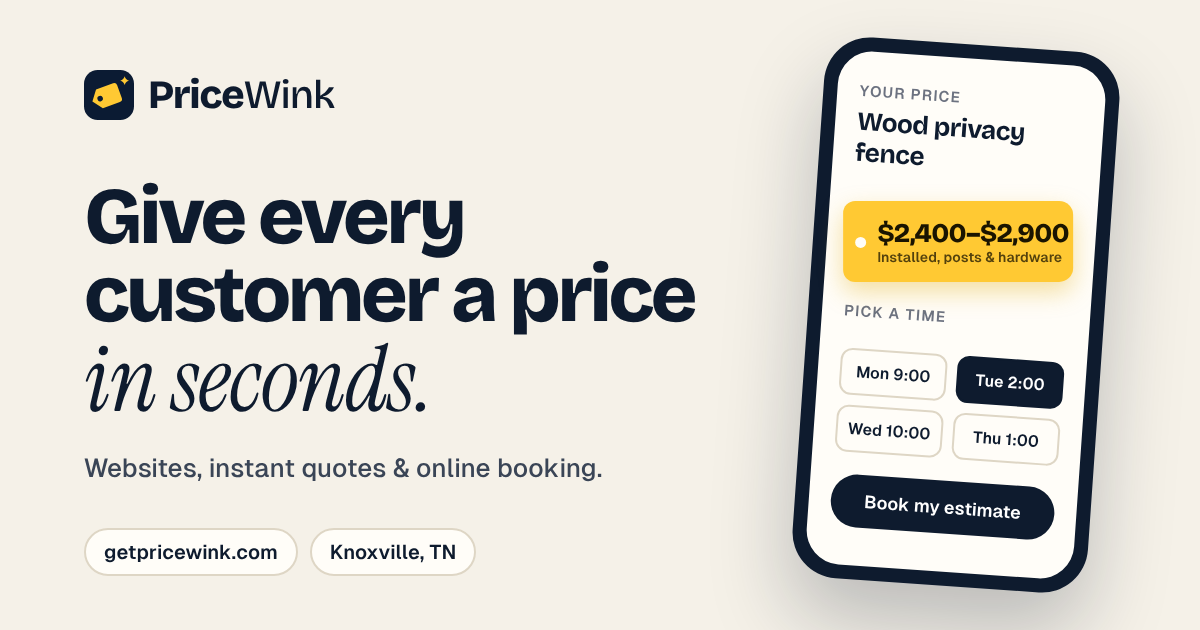
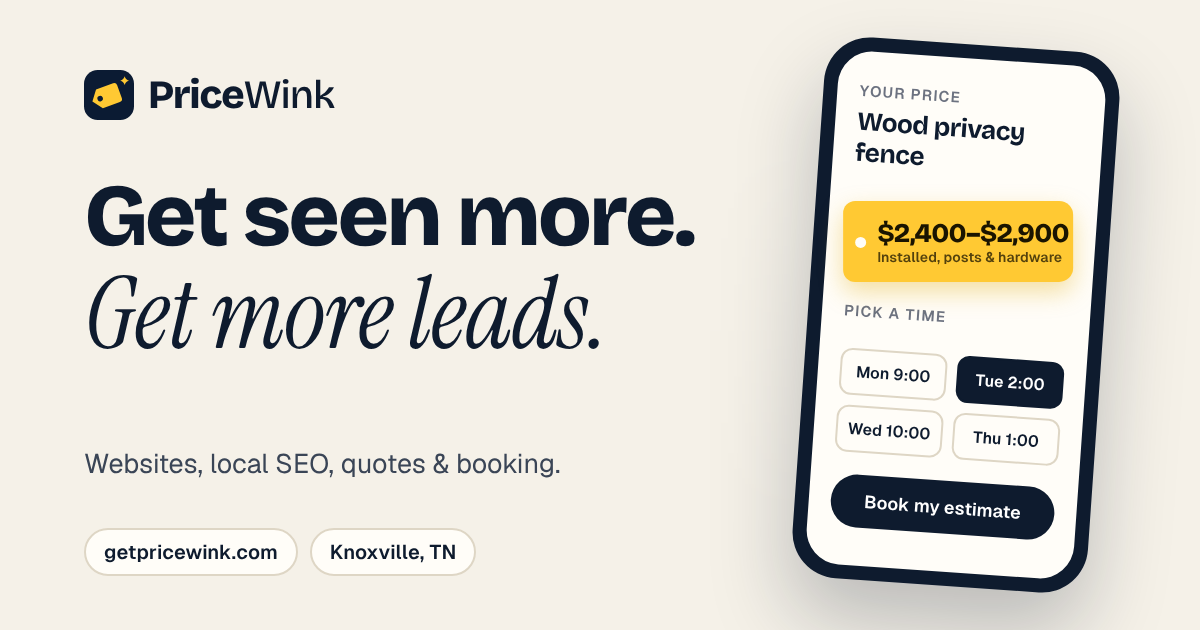
Reposition site around more leads and being seen
Lead with visibility and lead generation, add a Get seen / Get picked /
Get the lead section, and update SEO tags, FAQ, pricing list, contact
form options, terms and the social share image.

Claude-Session: https://claude.ai/code/session_01UoHjmt2TZKAXXcTa5MQCAA

Changed region(s): [[0.0617, 0.2714, 0.5858, 0.6635], [0.0617, 0.7238, 0.4933, 0.7841]]

diff --git a/index.html b/index.html
@@ -3,28 +3,28 @@
 <head>
 <meta charset="utf-8">
 <meta name="viewport" content="width=device-width, initial-scale=1, viewport-fit=cover">
-<title>Knoxville Websites &amp; Online Booking for Service Businesses | PriceWink</title>
-<meta name="description" content="Websites with instant quotes and online booking for Knoxville-area contractors and service businesses. Customers see your price and book from their phone. $249 setup, $99/month, built and managed for you.">
+<title>Knoxville Websites &amp; Local SEO That Bring More Leads | PriceWink</title>
+<meta name="description" content="PriceWink helps Knoxville-area businesses get seen and get more leads with websites, local SEO, instant quotes and online booking. $249 setup, $99/month, built and managed for you.">
 <meta name="robots" content="index, follow, max-image-preview:large">
 <meta name="theme-color" content="#0E1B2E">
 <link rel="icon" href="/favicon.svg" type="image/svg+xml">
-<meta property="og:title" content="PriceWink: websites, instant quotes and online booking for service businesses">
-<meta property="og:description" content="Customers see your price and book from their phone. You get the job.">
+<meta property="og:title" content="PriceWink: get seen more and get more leads">
+<meta property="og:description" content="Websites, local SEO, instant quotes and online booking for local businesses, all set up for you.">
 <meta property="og:url" content="https://www.getpricewink.com/">
 <meta property="og:type" content="website">
 <meta property="og:site_name" content="PriceWink">
 <meta property="og:image" content="https://www.getpricewink.com/img/og.png">
 <meta property="og:image:width" content="1200">
 <meta property="og:image:height" content="630">
-<meta property="og:image:alt" content="PriceWink: your customers see a price and book from their phone">
+<meta property="og:image:alt" content="PriceWink: get seen more, get more leads">
 <meta name="twitter:card" content="summary_large_image">
 <meta name="twitter:image" content="https://www.getpricewink.com/img/og.png">
 <link rel="canonical" href="https://www.getpricewink.com/">
 <script type="application/ld+json">
-{"@context": "https://schema.org", "@type": "ProfessionalService", "@id": "https://www.getpricewink.com/#business", "name": "PriceWink", "url": "https://www.getpricewink.com/", "logo": "https://www.getpricewink.com/favicon.svg", "image": "https://www.getpricewink.com/img/og.png", "description": "Websites, instant quote tools and online booking for local contractors and service businesses, built and managed from Knoxville, TN.", "telephone": "+1-865-321-0398", "email": "rj@getpricewink.com", "founder": {"@type": "Person", "name": "Ryder Mansell"}, "address": {"@type": "PostalAddress", "addressLocality": "Knoxville", "addressRegion": "TN", "addressCountry": "US"}, "areaServed": [{"@type": "City", "name": "Knoxville"}, {"@type": "City", "name": "Maryville"}, {"@type": "City", "name": "Farragut"}, {"@type": "City", "name": "Oak Ridge"}, {"@type": "City", "name": "Sevierville"}, {"@type": "City", "name": "Kodak"}, {"@type": "City", "name": "Lenoir City"}, {"@type": "City", "name": "Powell"}, {"@type": "State", "name": "Tennessee"}], "priceRange": "$$", "makesOffer": {"@type": "Offer", "name": "Website with instant quotes and online booking", "price": "99", "priceCurrency": "USD", "priceSpecification": [{"@type": "UnitPriceSpecification", "price": "99", "priceCurrency": "USD", "unitText": "MONTH"}, {"@type": "PriceSpecification", "name": "One-time setup", "price": "249", "priceCurrency": "USD"}]}, "knowsAbout": ["Web design for contractors", "Instant quote tools", "Online booking", "Local SEO", "Google Business Profile"]}
+{"@context": "https://schema.org", "@type": "ProfessionalService", "@id": "https://www.getpricewink.com/#business", "name": "PriceWink", "url": "https://www.getpricewink.com/", "logo": "https://www.getpricewink.com/favicon.svg", "image": "https://www.getpricewink.com/img/og.png", "description": "Helping local businesses get seen and get more leads with websites, local SEO, instant quote tools and online booking, built and managed from Knoxville, TN.", "telephone": "+1-865-321-0398", "email": "rj@getpricewink.com", "founder": {"@type": "Person", "name": "Ryder Mansell"}, "address": {"@type": "PostalAddress", "addressLocality": "Knoxville", "addressRegion": "TN", "addressCountry": "US"}, "areaServed": [{"@type": "City", "name": "Knoxville"}, {"@type": "City", "name": "Maryville"}, {"@type": "City", "name": "Farragut"}, {"@type": "City", "name": "Oak Ridge"}, {"@type": "City", "name": "Sevierville"}, {"@type": "City", "name": "Kodak"}, {"@type": "City", "name": "Lenoir City"}, {"@type": "City", "name": "Powell"}, {"@type": "State", "name": "Tennessee"}], "priceRange": "$$", "makesOffer": {"@type": "Offer", "name": "Website with instant quotes and online booking", "price": "99", "priceCurrency": "USD", "priceSpecification": [{"@type": "UnitPriceSpecification", "price": "99", "priceCurrency": "USD", "unitText": "MONTH"}, {"@type": "PriceSpecification", "name": "One-time setup", "price": "249", "priceCurrency": "USD"}]}, "knowsAbout": ["Web design for contractors", "Instant quote tools", "Online booking", "Local SEO", "Google Business Profile"]}
 </script>
 <script type="application/ld+json">
-{"@context": "https://schema.org", "@type": "FAQPage", "mainEntity": [{"@type": "Question", "name": "Can you build my whole website?", "acceptedAnswer": {"@type": "Answer", "text": "Yes. We build a new, mobile-friendly website for your business with your quote tool built in. It costs the same as the quote tool on its own: $249 setup and $99 a month, with hosting, your domain and updates included."}}, {"@type": "Question", "name": "Do I have to pay before I see anything?", "acceptedAnswer": {"@type": "Answer", "text": "No. We build a free preview with your own photos, reviews and services first. You only sign up if you like it."}}, {"@type": "Question", "name": "Do I own my domain?", "acceptedAnswer": {"@type": "Answer", "text": "Yes. Your domain is yours. If you ever cancel, we’ll transfer it to you."}}, {"@type": "Question", "name": "Do my customers need to download anything?", "acceptedAnswer": {"@type": "Answer", "text": "No. It's a link that works on any phone or computer."}}, {"@type": "Question", "name": "Can I change my prices?", "acceptedAnswer": {"@type": "Answer", "text": "Yes, anytime. Just tell us the new rates and we'll update them."}}, {"@type": "Question", "name": "What about jobs that need an in-person look?", "acceptedAnswer": {"@type": "Answer", "text": "Offer a \"service visit\" option instead of a fixed price, and finalize the quote on site."}}, {"@type": "Question", "name": "What if I price by size or measurements?", "acceptedAnswer": {"@type": "Answer", "text": "Customers can pick a size or enter square feet or linear feet, and the price is calculated from your rate. For jobs that need measuring on site, show a price range instead."}}, {"@type": "Question", "name": "What if the customer doesn’t know what’s wrong?", "acceptedAnswer": {"@type": "Answer", "text": "They pick what they’re seeing, like a leak, a strange noise, or something that stopped working, and book a diagnostic visit at your set fee. You give the exact price on site."}}, {"@type": "Question", "name": "I don’t have a website. Can I still use it?", "acceptedAnswer": {"@type": "Answer", "text": "Yes. Your quote page has its own link, so it works from your Google Business Profile, your Facebook page, or a text you send to customers who ask for a price. Or we can build you a website."}}, {"@type": "Question", "name": "Do I need to be good with technology?", "acceptedAnswer": {"@type": "Answer", "text": "No. We set everything up and make any changes for you. You just get the jobs by email and on your calendar, and you can call or text us anytime."}}, {"@type": "Question", "name": "Does it work with my calendar?", "acceptedAnswer": {"@type": "Answer", "text": "Yes. Every booking goes onto a Google Calendar that shows on your phone. Block off a day there and customers can’t book it."}}, {"@type": "Question", "name": "Who owns my customer info?", "acceptedAnswer": {"@type": "Answer", "text": "You do. Every booking is saved to a spreadsheet shared with you. We never sell or share it, and if you cancel, you keep a copy."}}, {"@type": "Question", "name": "How much does it cost?", "acceptedAnswer": {"@type": "Answer", "text": "$249 one-time setup, then $99 a month, whether it’s the quote tool on its own or a new website with the quote tool built in. Our first 3 clients get setup for $199."}}]}
+{"@context": "https://schema.org", "@type": "FAQPage", "mainEntity": [{"@type": "Question", "name": "Will this help me show up on Google?", "acceptedAnswer": {"@type": "Answer", "text": "It should help. Every website we build includes local SEO: your services, service area and business details are set up so Google can understand them, and we link everything to your Google Business Profile. Rankings take time and depend on things like your competition and reviews, so we can’t promise a specific spot."}}, {"@type": "Question", "name": "Can you guarantee more leads?", "acceptedAnswer": {"@type": "Answer", "text": "No, and be careful with anyone who does. What we can do is make you easier to find, make it easier for people to reach you, and show you where your bookings came from so you can see what’s working."}}, {"@type": "Question", "name": "Can you build my whole website?", "acceptedAnswer": {"@type": "Answer", "text": "Yes. We build a new, mobile-friendly website for your business with your quote tool built in. It costs the same as the quote tool on its own: $249 setup and $99 a month, with hosting, your domain and updates included."}}, {"@type": "Question", "name": "Do I have to pay before I see anything?", "acceptedAnswer": {"@type": "Answer", "text": "No. We build a free preview with your own photos, reviews and services first. You only sign up if you like it."}}, {"@type": "Question", "name": "Do I own my domain?", "acceptedAnswer": {"@type": "Answer", "text": "Yes. Your domain is yours. If you ever cancel, we’ll transfer it to you."}}, {"@type": "Question", "name": "Do my customers need to download anything?", "acceptedAnswer": {"@type": "Answer", "text": "No. It's a link that works on any phone or computer."}}, {"@type": "Question", "name": "Can I change my prices?", "acceptedAnswer": {"@type": "Answer", "text": "Yes, anytime. Just tell us the new rates and we'll update them."}}, {"@type": "Question", "name": "What about jobs that need an in-person look?", "acceptedAnswer": {"@type": "Answer", "text": "Offer a \"service visit\" option instead of a fixed price, and finalize the quote on site."}}, {"@type": "Question", "name": "What if I price by size or measurements?", "acceptedAnswer": {"@type": "Answer", "text": "Customers can pick a size or enter square feet or linear feet, and the price is calculated from your rate. For jobs that need measuring on site, show a price range instead."}}, {"@type": "Question", "name": "What if the customer doesn’t know what’s wrong?", "acceptedAnswer": {"@type": "Answer", "text": "They pick what they’re seeing, like a leak, a strange noise, or something that stopped working, and book a diagnostic visit at your set fee. You give the exact price on site."}}, {"@type": "Question", "name": "I don’t have a website. Can I still use it?", "acceptedAnswer": {"@type": "Answer", "text": "Yes. Your quote page has its own link, so it works from your Google Business Profile, your Facebook page, or a text you send to customers who ask for a price. Or we can build you a website."}}, {"@type": "Question", "name": "Do I need to be good with technology?", "acceptedAnswer": {"@type": "Answer", "text": "No. We set everything up and make any changes for you. You just get the jobs by email and on your calendar, and you can call or text us anytime."}}, {"@type": "Question", "name": "Does it work with my calendar?", "acceptedAnswer": {"@type": "Answer", "text": "Yes. Every booking goes onto a Google Calendar that shows on your phone. Block off a day there and customers can’t book it."}}, {"@type": "Question", "name": "Who owns my customer info?", "acceptedAnswer": {"@type": "Answer", "text": "You do. Every booking is saved to a spreadsheet shared with you. We never sell or share it, and if you cancel, you keep a copy."}}, {"@type": "Question", "name": "How much does it cost?", "acceptedAnswer": {"@type": "Answer", "text": "$249 one-time setup, then $99 a month, whether it’s the quote tool on its own or a new website with the quote tool built in. Our first 3 clients get setup for $199."}}]}
 </script>
 <link rel="preconnect" href="https://fonts.googleapis.com">
 <link rel="preconnect" href="https://fonts.gstatic.com" crossorigin>
@@ -441,6 +441,23 @@ footer .wrap{display:flex;justify-content:space-between;align-items:center;gap:1
   .rv,.row{opacity:1;transform:none}
   .ph{transform:none!important}
 }
+/* Get seen section */
+.hero h1{font-size:clamp(2.9rem,8.4vw,5rem)}
+.hero h1 em.s,#grow h2 em.s{display:block}
+.grow-lead{max-width:40rem}
+.m-search{width:84%;display:flex;flex-direction:column;gap:10px}
+.m-bar{display:flex;align-items:center;gap:8px;background:#fff;border:1.5px solid var(--line);border-radius:999px;padding:9px 14px;font-size:.84rem;font-weight:500;color:var(--ink)}
+.m-bar svg{flex:none;color:var(--muted)}
+.m-res{background:#fff;border:1px solid var(--line);border-radius:14px;padding:11px 14px}
+.m-res small{display:block;font-size:.72rem;color:var(--muted)}
+.m-res b{display:block;font-family:var(--disp);font-size:.98rem;color:var(--ink);letter-spacing:-.01em;margin:1px 0 2px}
+.m-res span{display:block;font-size:.78rem;color:var(--body);line-height:1.3}
+.m-pick{width:76%;display:flex;flex-direction:column;gap:8px}
+.m-pick b{font-family:var(--disp);font-size:1.12rem;line-height:1.1;color:var(--ink);letter-spacing:-.02em;margin-bottom:4px}
+.m-pick span{display:block;text-align:center;border-radius:999px;padding:9px 10px;font-size:.84rem;font-weight:600}
+.m-pick .a{background:var(--tag);color:var(--tag-ink)}
+.m-pick .c{background:#fff;color:var(--ink);border:1.5px solid var(--line)}
+@media(max-width:860px){.m-res span{display:none}.m-pick b{display:none}}
 </style>
 </head>
 <body>
@@ -454,7 +471,7 @@ footer .wrap{display:flex;justify-content:space-between;align-items:center;gap:1
 <nav class="nav" id="nav">
   <div class="wrap">
     <a class="logo" href="#top" aria-label="PriceWink home"><svg width="34" height="34" aria-hidden="true"><use href="#mark"/></svg><span><b>Price</b><span>Wink</span></span></a>
-    <div class="links"><a href="#how">How it works</a><a href="#websites">Websites</a><a href="#pricing">Pricing</a><a href="#faq">FAQ</a></div>
+    <div class="links"><a href="#grow">More leads</a><a href="#how">How it works</a><a href="#websites">Websites</a><a href="#pricing">Pricing</a><a href="#faq">FAQ</a></div>
     <a class="btn sm" href="#contact">Request a demo</a>
   </div>
 </nav>
@@ -464,11 +481,11 @@ footer .wrap{display:flex;justify-content:space-between;align-items:center;gap:1
 <section class="hero">
   <div class="wrap hgrid">
     <div>
-      <span class="eyebrow">Websites · Quotes · Booking · Knoxville, TN</span>
-      <h1>Give every customer a price <em class="s">in seconds.</em></h1>
-      <p class="lead">Customers see your price and book from their phone. You get the job. No back-and-forth.</p>
-      <div class="ctas"><a class="btn" href="#contact">Request a demo <svg width="18" height="18" aria-hidden="true"><use href="#arr"/></svg></a><a class="btn ghost" href="#websites">Need a website?</a></div>
-      <div class="where"><span>Your website</span><span>Google Business Profile</span><span>Facebook</span><span>A text link</span></div>
+      <span class="eyebrow">More leads · More visibility</span>
+      <h1>Get seen more. <em class="s">Get more leads.</em></h1>
+      <p class="lead">PriceWink helps Knoxville-area businesses show up online and turn more visitors into real leads, with a website, local SEO, instant quotes and online booking, all set up for you.</p>
+      <div class="ctas"><a class="btn" href="#contact">Get my free preview <svg width="18" height="18" aria-hidden="true"><use href="#arr"/></svg></a><a class="btn ghost" href="#grow">See how</a></div>
+      <div class="where"><span>On Google</span><span>On Facebook</span><span>On your website</span><span>By text link</span></div>
     </div>
 
     <div class="hstage">
@@ -521,6 +538,18 @@ footer .wrap{display:flex;justify-content:space-between;align-items:center;gap:1
   <span aria-hidden="true">Garage doors</span><span aria-hidden="true">Tree service</span><span aria-hidden="true">Gutters</span><span aria-hidden="true">Roofing</span><span aria-hidden="true">Christmas lighting</span><span aria-hidden="true">HVAC</span><span aria-hidden="true">Lawn care</span><span aria-hidden="true">Painting</span><span aria-hidden="true">Windows</span><span aria-hidden="true">Junk removal</span>
 </div></div>
 
+<!-- ================= GET SEEN ================= -->
+<section id="grow">
+  <div class="wrap">
+    <div class="head rv"><span class="eyebrow">More leads</span><h2>Get seen. Get picked. <em class="s">Get the lead.</em></h2><p class="lead grow-lead">Good work only pays off if people can find you. We help at every step, from the first search to the new lead on your phone.</p></div>
+    <ol class="three">
+      <li class="rv"><div class="mini"><div class="m-search" aria-hidden="true"><div class="m-bar"><svg width="14" height="14" viewBox="0 0 20 20"><circle cx="9" cy="9" r="6" fill="none" stroke="currentColor" stroke-width="2.4"/><path d="M14 14l4 4" stroke="currentColor" stroke-width="2.4" stroke-linecap="round"/></svg>garage door repair near me</div><div class="m-res"><small>ridgeviewdoors.com</small><b>Ridgeview Garage Doors</b><span>Springs, openers and new doors. Get a price online.</span></div></div></div><h3>Get seen</h3><p>Your site is built for local search and linked to your Google profile and Facebook, so people nearby can find you.</p></li>
+      <li class="rv"><div class="mini"><div class="m-pick" aria-hidden="true"><b>Garage doors done right.</b><span class="a">Get my price</span><span class="c">Call now</span></div></div><h3>Get picked</h3><p>A sharp, phone-friendly site with instant prices and tap-to-call gives people a reason to choose you.</p></li>
+      <li class="rv"><div class="mini"><div class="m3" aria-hidden="true"><span class="ap"><svg width="20" height="20"><use href="#mark"/></svg></span><div><small>New lead · from Google</small><b>Jordan P. · $1,950<br>Double door, insulated</b></div></div></div><h3>Get the lead</h3><p>Bookings and unfinished quotes land in one simple inbox, and you can see where each one came from.</p></li>
+    </ol>
+  </div>
+</section>
+
 <!-- ================= HOW ================= -->
 <section id="how">
   <div class="wrap">
@@ -537,13 +566,13 @@ footer .wrap{display:flex;justify-content:space-between;align-items:center;gap:1
 <section class="dark" id="websites">
   <div class="wrap">
     <div class="web-top">
-      <div class="head rv" style="margin:0"><span class="eyebrow">Websites</span><h2>No website? Old website? <em class="s">We’ll build you a new one.</em></h2></div>
+      <div class="head rv" style="margin:0"><span class="eyebrow">Websites</span><h2>No website? Old website? <em class="s">We’ll build one that gets found.</em></h2></div>
       <div class="rv">
-        <p class="lead" style="margin-bottom:24px">Designed around your business, with your quote tool built in.</p>
+        <p class="lead" style="margin-bottom:24px">Designed around your business and built for local search, with your quote tool included.</p>
         <ul class="points">
           <li><b>Made for you</b>Never a generic template.</li>
           <li><b>Phone first</b>Tap-to-call, directions and booking.</li>
-          <li><b>Your own address</b>A domain like yourbusiness.com, yours to keep.</li>
+          <li><b>Built to be found</b>Local SEO included from day one.</li>
           <li><b>See it before you pay</b>We build a free preview first.</li>
         </ul>
       </div>
@@ -578,10 +607,12 @@ footer .wrap{display:flex;justify-content:space-between;align-items:center;gap:1
     </div>
     <div>
       <div class="head rv" style="margin-bottom:0"><span class="eyebrow">For the owner</span><h2>Jobs show up. <em class="s">You just show up.</em></h2>
-        <p class="lead">Bookings land on your phone, price already agreed. We run the rest.</p></div>
+        <p class="lead">New leads and bookings land on your phone. We run the rest.</p></div>
       <ul class="feats rv">
         <li><b>Your prices</b><span>You set every rate and add-on. Change them anytime.</span></li>
         <li><b>Books after hours</b><span>Catch the customers who shop at night.</span></li>
+        <li><b>See what’s working</b><span>Know where each booking came from.</span></li>
+        <li><b>Save unfinished quotes</b><span>Follow up with people who didn’t book.</span></li>
         <li><b>Google Calendar sync</b><span>Block a day and nobody can book it.</span></li>
         <li><b>Set up for you</b><span>We build it, add it and update it.</span></li>
         <li><b>No website needed</b><span>Works from Google, Facebook or a text.</span></li>
@@ -607,8 +638,9 @@ footer .wrap{display:flex;justify-content:space-between;align-items:center;gap:1
       <ul class="incl">
         <li>Your quote tool, built for you</li>
         <li>A new website, if you need one</li>
+        <li>Local SEO built into your website</li>
         <li>Hosting, domain and updates</li>
-        <li>Booking alerts on your phone</li>
+        <li>Lead and booking alerts</li>
       </ul>
       <a class="btn yel" href="#contact">Get my free preview <svg width="18" height="18" aria-hidden="true"><use href="#arr"/></svg></a>
       <p class="fine">Cancel anytime. Setup is non-refundable. <a href="#terms">Terms</a></p>
@@ -623,8 +655,8 @@ footer .wrap{display:flex;justify-content:space-between;align-items:center;gap:1
     <div class="rv">
       <span class="eyebrow">Who you’ll work with</span>
       <blockquote style="margin-top:16px">A real person, <em class="s">not a call center.</em></blockquote>
-      <p>Hi, I’m Ryder. I started PriceWink to help local service businesses win more jobs with less phone tag.</p>
-      <p>I build your quote tool with your own services and prices, and if you need one, a new website to go with it. I add it to your Google profile and Facebook and handle every change after that. You don’t have to learn any new software. If you need anything, just call or text me.</p>
+      <p>Hi, I’m Ryder. I started PriceWink to help local businesses get seen, get more leads and win more jobs.</p>
+      <p>I build your quote tool with your own services and prices, and if you need one, a new website set up to be found on Google. I add it to your Google profile and Facebook and handle every change after that. You don’t have to learn any new software. If you need anything, just call or text me.</p>
       <div class="ctas"><a class="btn" href="tel:+18653210398">Call or text (865) 321-0398</a><a class="btn ghost" href="mailto:rj@getpricewink.com">Email me</a></div>
     </div>
   </div>
@@ -636,6 +668,7 @@ footer .wrap{display:flex;justify-content:space-between;align-items:center;gap:1
     <div class="head rv"><span class="eyebrow">FAQ</span><h2>Common <em class="s">questions.</em></h2></div>
     <div class="faq">
       <div>
+        <details><summary>Will this help me show up on Google?</summary><p>It should help. Every website we build includes local SEO: your services, service area and business details are set up so Google can understand them, and we link everything to your Google Business Profile. Rankings take time and depend on things like your competition and reviews, so we can’t promise a specific spot.</p></details>
         <details><summary>Can you build my whole website?</summary><p>Yes. We build a new, mobile-friendly website for your business with your quote tool built in. It costs the same as the quote tool on its own: $249 setup and $99 a month, with hosting, your domain and updates included.</p></details>
         <details><summary>Do I have to pay before I see anything?</summary><p>No. We build a free preview with your own photos, reviews and services first. You only sign up if you like it.</p></details>
         <details><summary>Do I own my domain?</summary><p>Yes. Your domain is yours. If you ever cancel, we’ll transfer it to you.</p></details>
@@ -645,6 +678,7 @@ footer .wrap{display:flex;justify-content:space-between;align-items:center;gap:1
         <details><summary>What if I price by size or measurements?</summary><p>Customers can pick a size or enter square feet or linear feet, and the price is calculated from your rate. For jobs that need measuring on site, show a price range instead.</p></details>
       </div>
       <div>
+        <details><summary>Can you guarantee more leads?</summary><p>No, and be careful with anyone who does. What we can do is make you easier to find, make it easier for people to reach you, and show you where your bookings came from so you can see what’s working.</p></details>
         <details><summary>What if the customer doesn’t know what’s wrong?</summary><p>They pick what they’re seeing, like a leak, a strange noise, or something that stopped working, and book a diagnostic visit at your set fee. You give the exact price on site.</p></details>
         <details><summary>I don’t have a website. Can I still use it?</summary><p>Yes. Your quote page has its own link, so it works from your Google Business Profile, your Facebook page, or a text you send to customers who ask for a price. Or we can build you a website.</p></details>
         <details><summary>Do I need to be good with technology?</summary><p>No. We set everything up and make any changes for you. You just get the jobs by email and on your calendar, and you can call or text us anytime.</p></details>
@@ -661,7 +695,7 @@ footer .wrap{display:flex;justify-content:space-between;align-items:center;gap:1
   <div class="wrap contact">
     <div class="rv">
       <span class="eyebrow">Free demo</span>
-      <h2 style="margin-top:16px">Let’s get you <em class="s">booked.</em></h2>
+      <h2 style="margin-top:16px">Let’s get you <em class="s">seen.</em></h2>
       <p class="lead" style="margin-top:18px">Tell us about your business. We’ll reply <b style="color:#fff">within 24 hours</b> with a free preview built for you.</p>
       <p class="alt">Rather talk? Call or text <a href="tel:+18653210398">(865) 321-0398</a><br>or email <a href="mailto:rj@getpricewink.com">rj@getpricewink.com</a></p>
     </div>
@@ -674,7 +708,7 @@ footer .wrap{display:flex;justify-content:space-between;align-items:center;gap:1
       </div>
       <label for="d-type">What kind of business?<input id="d-type" name="type" placeholder="Garage doors, tree service…"></label>
       <label for="d-want">What are you interested in?
-        <select id="d-want" name="interest"><option>Quote tool for my current website</option><option>New website with a quote tool</option><option>Not sure yet</option></select>
+        <select id="d-want" name="interest"><option>Getting more leads</option><option>Showing up on Google</option><option>Quote tool for my current website</option><option>New website with a quote tool</option><option>Not sure yet</option></select>
       </label>
       <label for="d-time">Best time to reach you
         <select id="d-time" name="best_time"><option>Anytime</option><option>Mornings</option><option>Afternoons</option><option>Evenings</option></select>
@@ -715,6 +749,7 @@ footer .wrap{display:flex;justify-content:space-between;align-items:center;gap:1
     <ul>
       <li>We build, host and maintain your quote tool and website, and make price, service and content updates when you ask.</li>
       <li>If we register a domain for you, it belongs to you. If you cancel, we’ll transfer it to you.</li>
+      <li>We work to help you get found and get leads, but we can’t guarantee search rankings or a specific number of leads or jobs.</li>
       <li>We work to keep your tool running at all times, but we can’t promise it will never be down. If something breaks, we fix it as fast as we can.</li>
     </ul>
     <h3>What you’re responsible for</h3>
